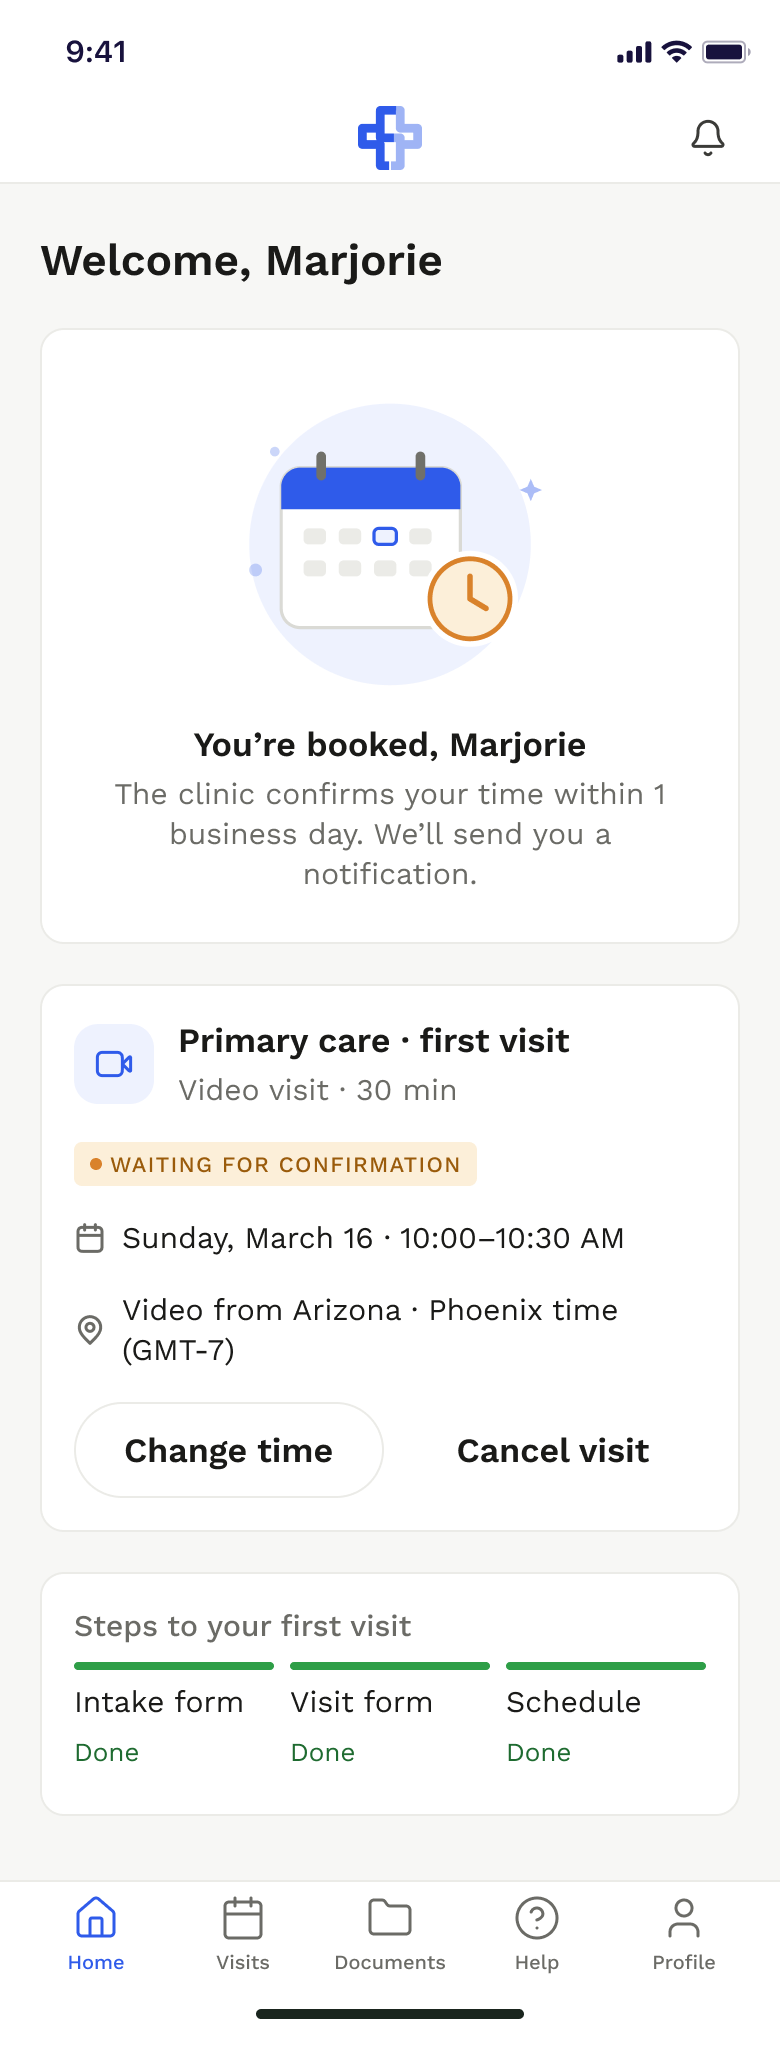
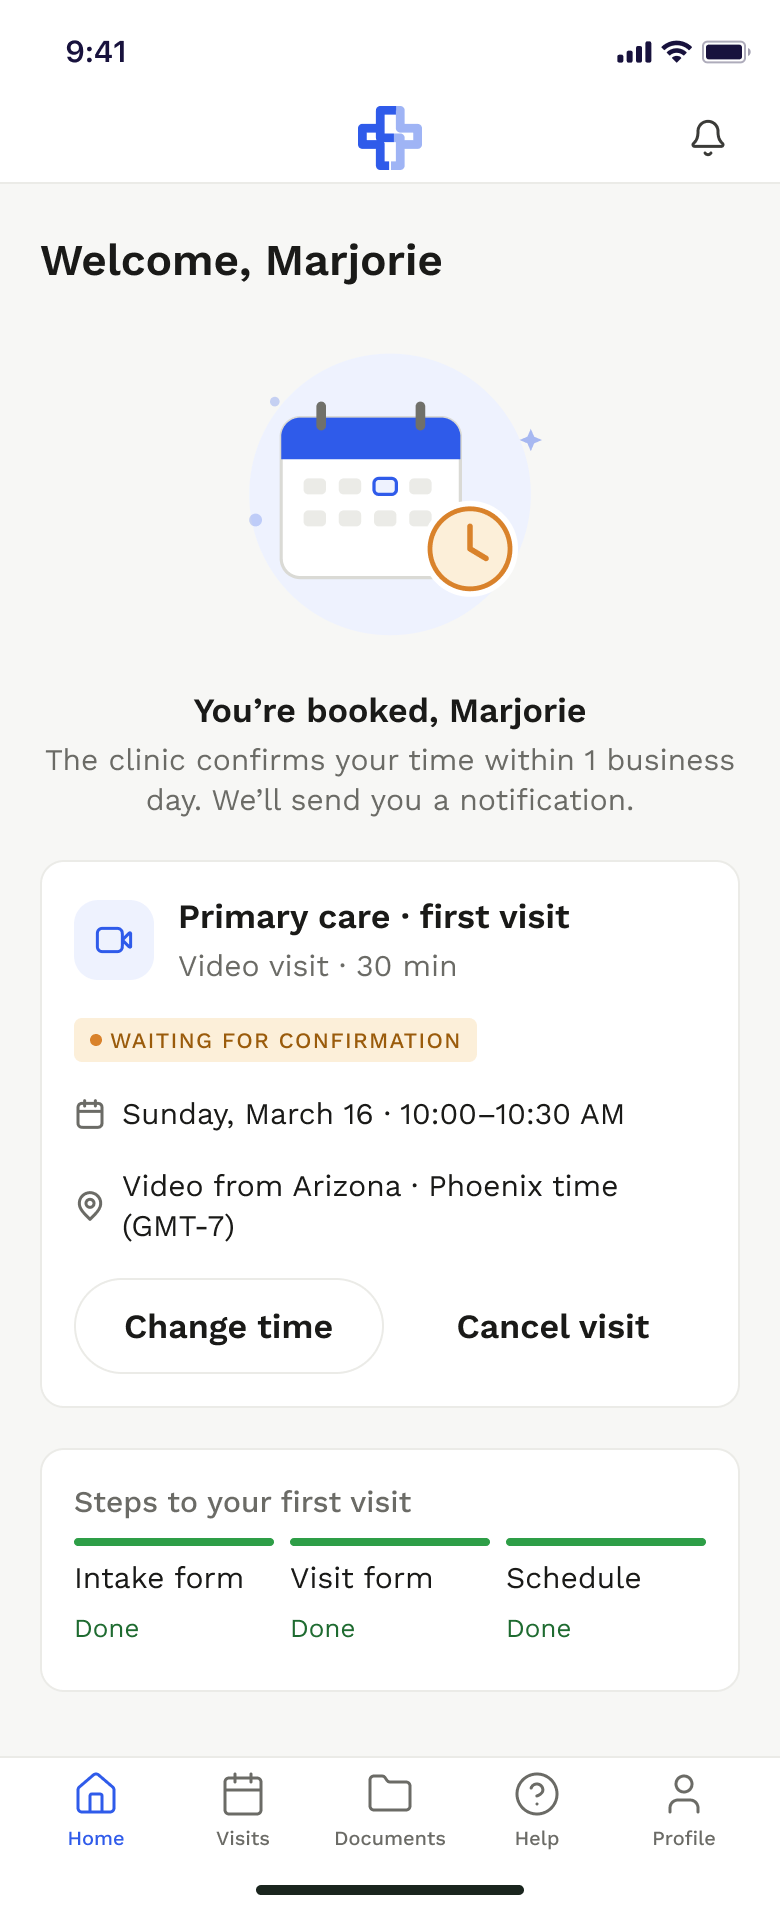
HealthConnect: re-export H3 and H5 patient screens (2x)

diff --git a/healthconnect.html b/healthconnect.html
@@ -359,7 +359,7 @@
             <figcaption><h3><span class="cs-num">12</span>Pick a time</h3><p>Days with free slots, booked times shown as unavailable, and the choice summarised above the button.</p></figcaption>
           </figure>
           <figure class="cs-slide">
-            <div class="cs-shot cs-shot--natural cs-shot--phone"><img src="assets/healthconnect/patient/h3-waiting.png" width="780" height="2048" loading="lazy" alt="Home after booking: visit waiting for confirmation with change and cancel" /></div>
+            <div class="cs-shot cs-shot--natural cs-shot--phone"><img src="assets/healthconnect/patient/h3-waiting.png?v=2" width="780" height="1924" loading="lazy" alt="Home after booking: visit waiting for confirmation with change and cancel" /></div>
             <figcaption><h3><span class="cs-num">13</span>Waiting for confirmation</h3><p>The clinic confirms the time; until then the patient can change or cancel it.</p></figcaption>
           </figure>
           <figure class="cs-slide">
@@ -383,7 +383,7 @@
             <figcaption><h3><span class="cs-num">18</span>Help</h3><p>Emergency first, then an extra visit, help with the video call and the care team’s contacts.</p></figcaption>
           </figure>
           <figure class="cs-slide">
-            <div class="cs-shot cs-shot--natural cs-shot--phone"><img src="assets/healthconnect/patient/h5-no-visit.png" width="780" height="1852" loading="lazy" alt="Home when no visit is set up yet, with care-team contacts" /></div>
+            <div class="cs-shot cs-shot--natural cs-shot--phone"><img src="assets/healthconnect/patient/h5-no-visit.png?v=2" width="780" height="1728" loading="lazy" alt="Home when no visit is set up yet, with care-team contacts" /></div>
             <figcaption><h3><span class="cs-num">19</span>No visit yet</h3><p>When nobody has set up a visit, the screen says who does it and how to chase it.</p></figcaption>
           </figure>
         </div>
